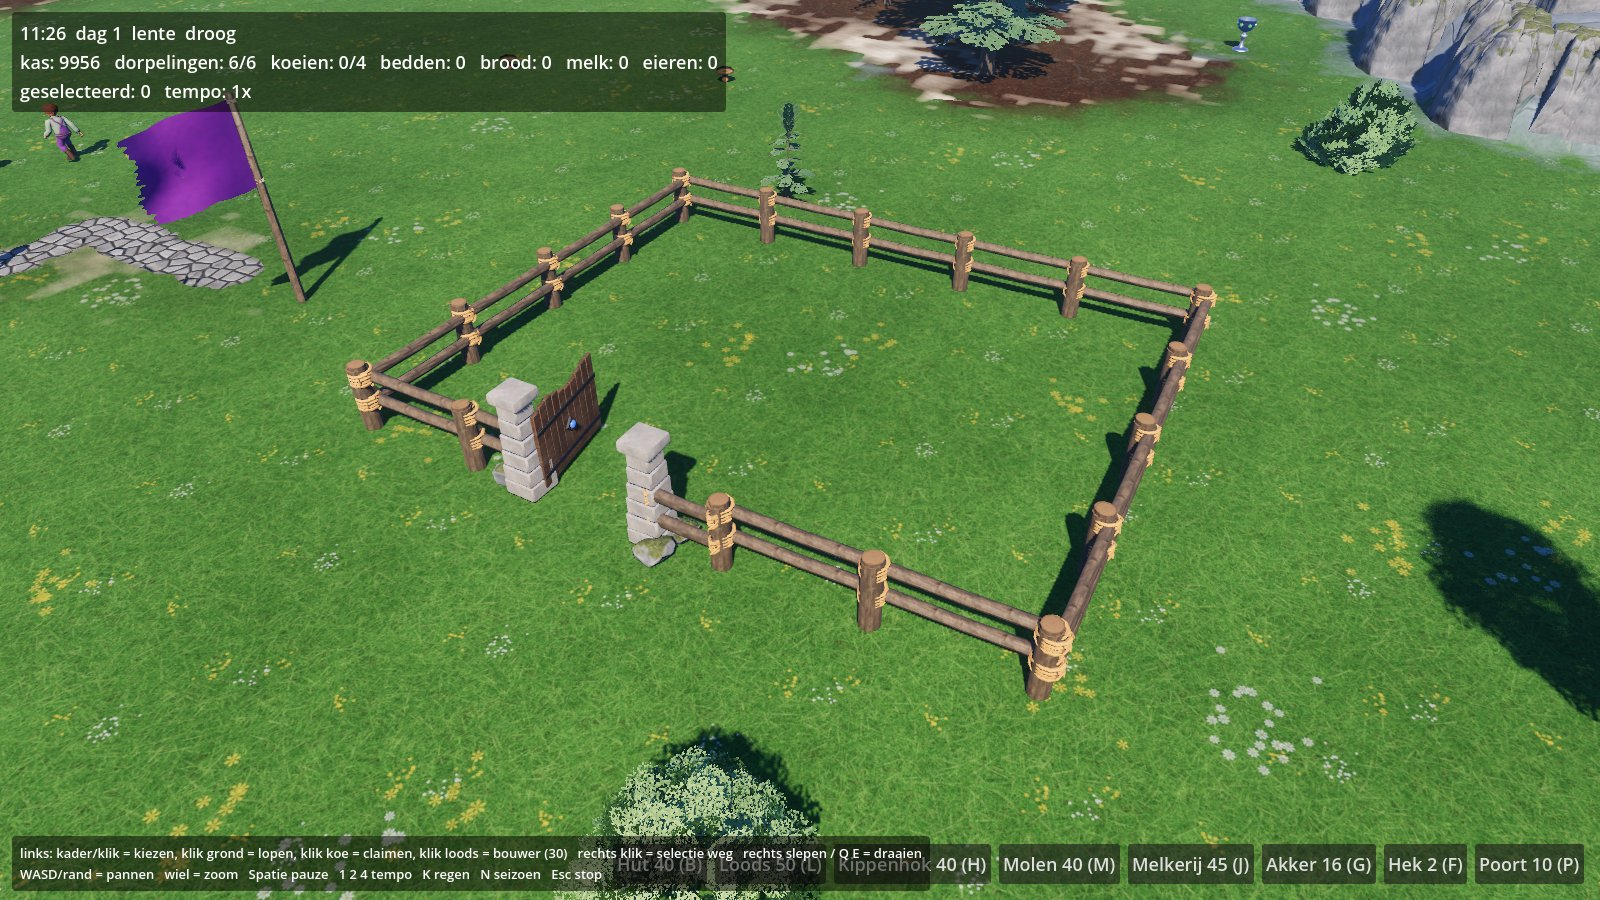
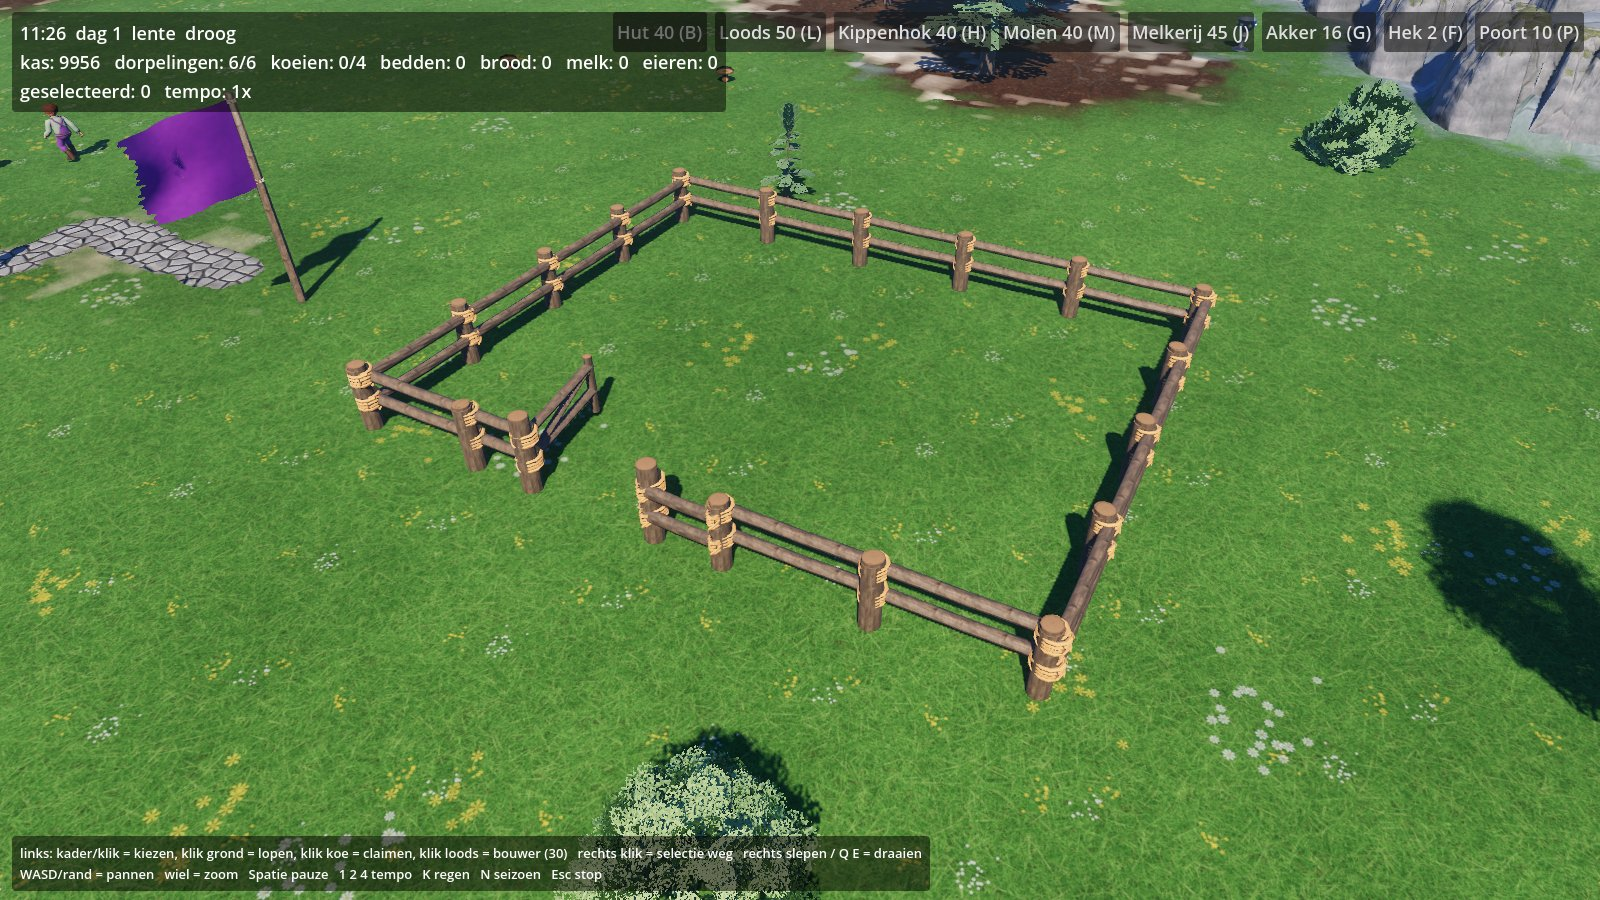
Beasts & Bumpkins-remake: houten hekpoort in plaats van de stenen sleutelpoort
De poort uit het bouwmenu is nu hek_poort.glb (origineel `gate`: twee palen met touw,
draaiende vleugel met schoor en slotpaaltje); poort.glb blijft de stenen poort (`mgate`)
voor latere missies.

Claude-Session: https://claude.ai/code/session_0151pWCWHCzH6TWJgc2h9cMZ

Changed region(s): [[0.375, 0.9333, 1.0, 0.9956], [0.375, 0.0, 1.0, 0.0622], [0.2812, 0.4044, 0.4375, 0.6222]]

diff --git a/docs/beasts-bumpkins-remake/modellen/natuur/props.py b/docs/beasts-bumpkins-remake/modellen/natuur/props.py
@@ -1,4 +1,4 @@
-"""Props voor missie 1: paddenstoel, zilveren_beker, vlag, kampvuur, houtstapel, steenhoop, bron (put, latere
+"""Props voor missie 1: paddenstoel, zilveren_beker, vlag, kampvuur, houtstapel, steenhoop, hek_poort, bron (put, latere
 missies), bronplas (de spring van missie 1: kring keien om een plasje),
 hek_segment, hek_paal, poort, akker_kaal, akker_rijp.
 
@@ -22,7 +22,7 @@ from mathutils import Matrix, Vector, noise
 import natuur_lib as L
 from atlas import CEL
 
-ALLE = ["paddenstoel", "zilveren_beker", "vlag", "kampvuur", "houtstapel", "steenhoop", "bron", "bronplas", "hek_segment",
+ALLE = ["paddenstoel", "zilveren_beker", "vlag", "kampvuur", "houtstapel", "steenhoop", "bron", "bronplas", "hek_segment", "hek_poort",
         "hek_paal", "poort", "akker_kaal", "akker_rijp"]
 ALLEEN = [n for n in L.OPTS.get("alleen", ",".join(ALLE)).split(",") if n]
 
@@ -928,6 +928,37 @@ def hek_segment():
             touwrol(b, Vector((x, 0.05, z)), Vector((0, 0, 1)), 0.15, 0.2, winden=4)
     o = L.obj("hek_segment", b.mesh("hek_segment", [m("hout"), m("kopshout"), m("touw")]))
     o.data.set_sharp_from_angle(angle=math.radians(50))
+    return [o]
+
+
+def hek_poort():
+    """Houten hekpoort (origineel `gate`, het hek van missie 1; `poort` is de stenen sleutelpoort van later): twee
+    zware palen op x = -1 en +1 met touw, ertussen een draaiende vleugel `poort_deur` (twee regels, een schoor en een
+    slotpaaltje) met het scharnier op x = -1 als lokale oorsprong (om lokaal Z in Blender = lokaal Y in Godot)."""
+    rnd = random.Random(12)
+    b = L.Bouwer()
+    for x in (-1.0, 1.0):
+        paal(b, rnd, Vector((x, 0, -0.05)), 1.25, r=0.14)
+        for z in (0.45, 0.85):
+            touwrol(b, Vector((x, 0.05, z)), Vector((0, 0, 1)), 0.16, 0.2, winden=4)
+    o = L.obj("hek_poort", b.mesh("hek_poort", [m("hout"), m("kopshout"), m("touw")]))
+    o.data.set_sharp_from_angle(angle=math.radians(50))
+    d = L.Bouwer()
+    paal(d, rnd, Vector((1.78, 0.0, 0.08)), 0.95, r=0.07)     # slotpaaltje aan de vrije kant
+    for z in (0.45, 0.85):
+        p0, p1 = Vector((0.12, 0.0, z)), Vector((1.82, 0.0, z + rnd.uniform(-0.02, 0.02)))
+        rr = L.buis(d, [p0, p0.lerp(p1, 0.5) + Vector((0, 0, -0.012)), p1], [0.07, 0.068, 0.07], zijden=8,
+                    uvschaal=1 / 0.8, mat=0, u_rep=0.45)
+        schijf_uv(d, rr[0], p0, 1, omgekeerd=True)
+        schijf_uv(d, rr[-1], p1, 1)
+    q0, q1 = Vector((0.18, 0.0, 0.47)), Vector((1.72, 0.0, 0.83))      # schoor tegen het doorzakken
+    rr = L.buis(d, [q0, q1], [0.055, 0.055], zijden=8, uvschaal=1 / 0.8, mat=0, u_rep=0.4)
+    for z in (0.45, 0.85):                                             # scharnieren: touw om de grote paal
+        touwrol(d, Vector((0.02, 0.0, z)), Vector((1, 0, 0)), 0.09, 0.14, winden=3)
+    do = L.obj("poort_deur", d.mesh("poort_deur", [m("hout"), m("kopshout"), m("touw")]))
+    do.data.set_sharp_from_angle(angle=math.radians(50))
+    do.parent = o
+    do.location = (-1.0, 0, 0)
     return [o]
 
 

diff --git a/docs/beasts-bumpkins-remake/modellen/natuur/README.md b/docs/beasts-bumpkins-remake/modellen/natuur/README.md
@@ -31,7 +31,8 @@ Driehoeken: LOD0 / LOD1 (+ sneeuwlaag).
 | bronplas (spring 144, missie 1), 2 m | `bronplas.glb` | 1464 | kring keien (gebakken, steen-shader) + `bronplas_water` (BLEND) |
 | hekpaal | `hek_paal.glb` | 50 | |
 | heksegment, 2 m (palen op x = +-1) | `hek_segment.glb` | 2676 | oranje touw om de kruisingen |
-| poort, doorgang 2 m | `poort.glb` | 2224 | blauwe steen emissief, keien met mos |
+| poort (stenen sleutelpoort, `mgate`, latere missies), doorgang 2 m | `poort.glb` | 2224 | blauwe steen emissief, keien met mos; deur los als `poort_deur` |
+| hekpoort (houten, `gate`, missie 1), 2 m | `hek_poort.glb` | 3782 | twee palen met touw, vleugel `poort_deur` (scharnier op x = -1) |
 | akker kaal, 2 x 2 m | `akker_kaal.glb` | 2822 | vier ruggen langs x |
 | akker rijp, 2 x 2 m | `akker_rijp.glb` | 3830 | tarwe als gekruiste kaarten (`akker_rijp_gewas`, wind) |
 
